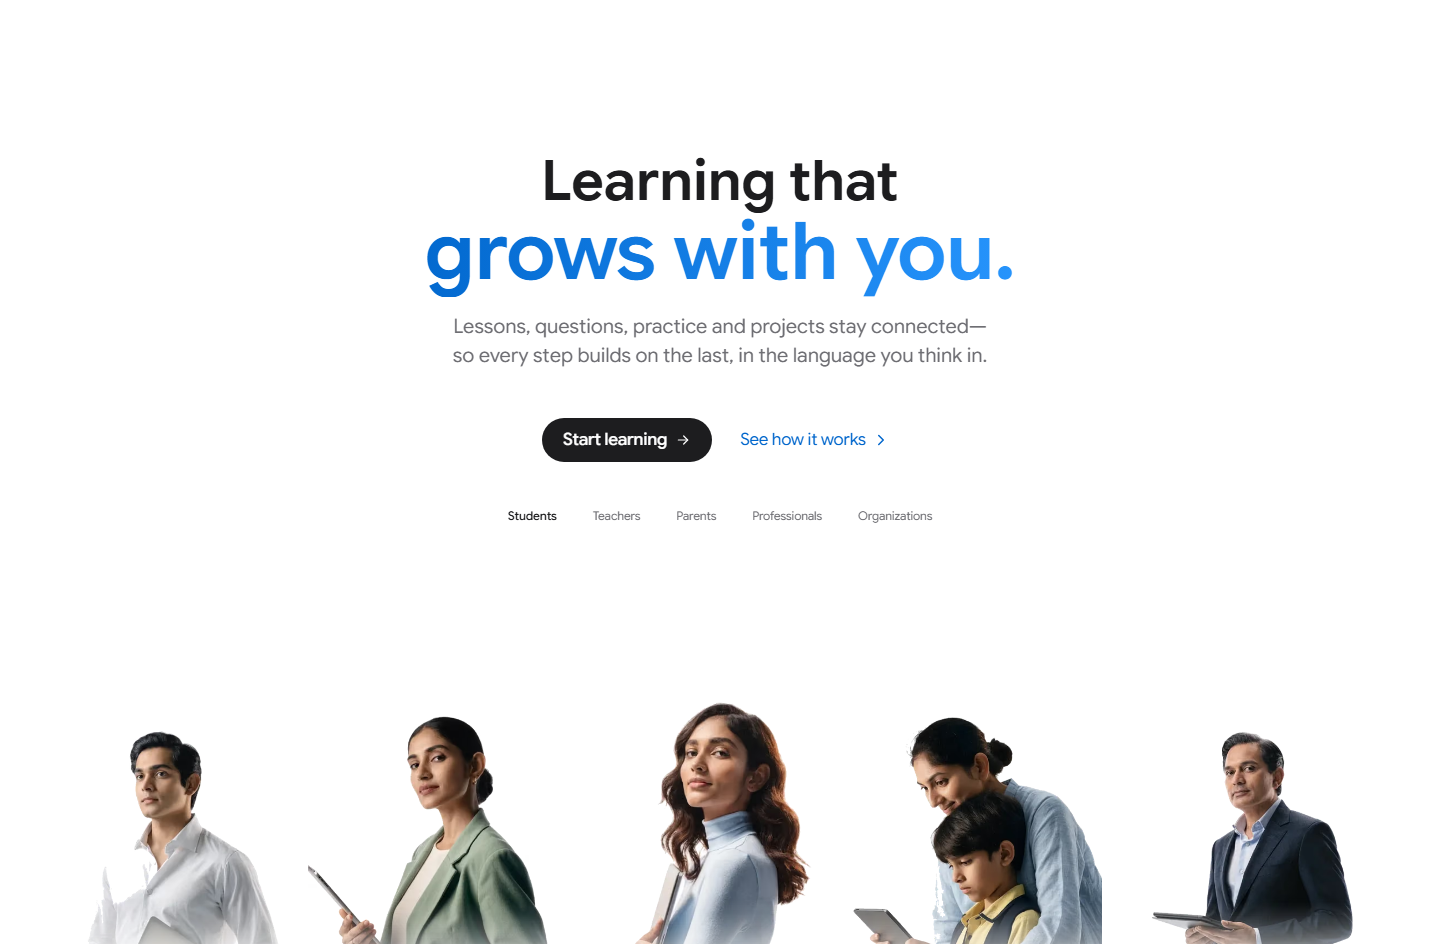
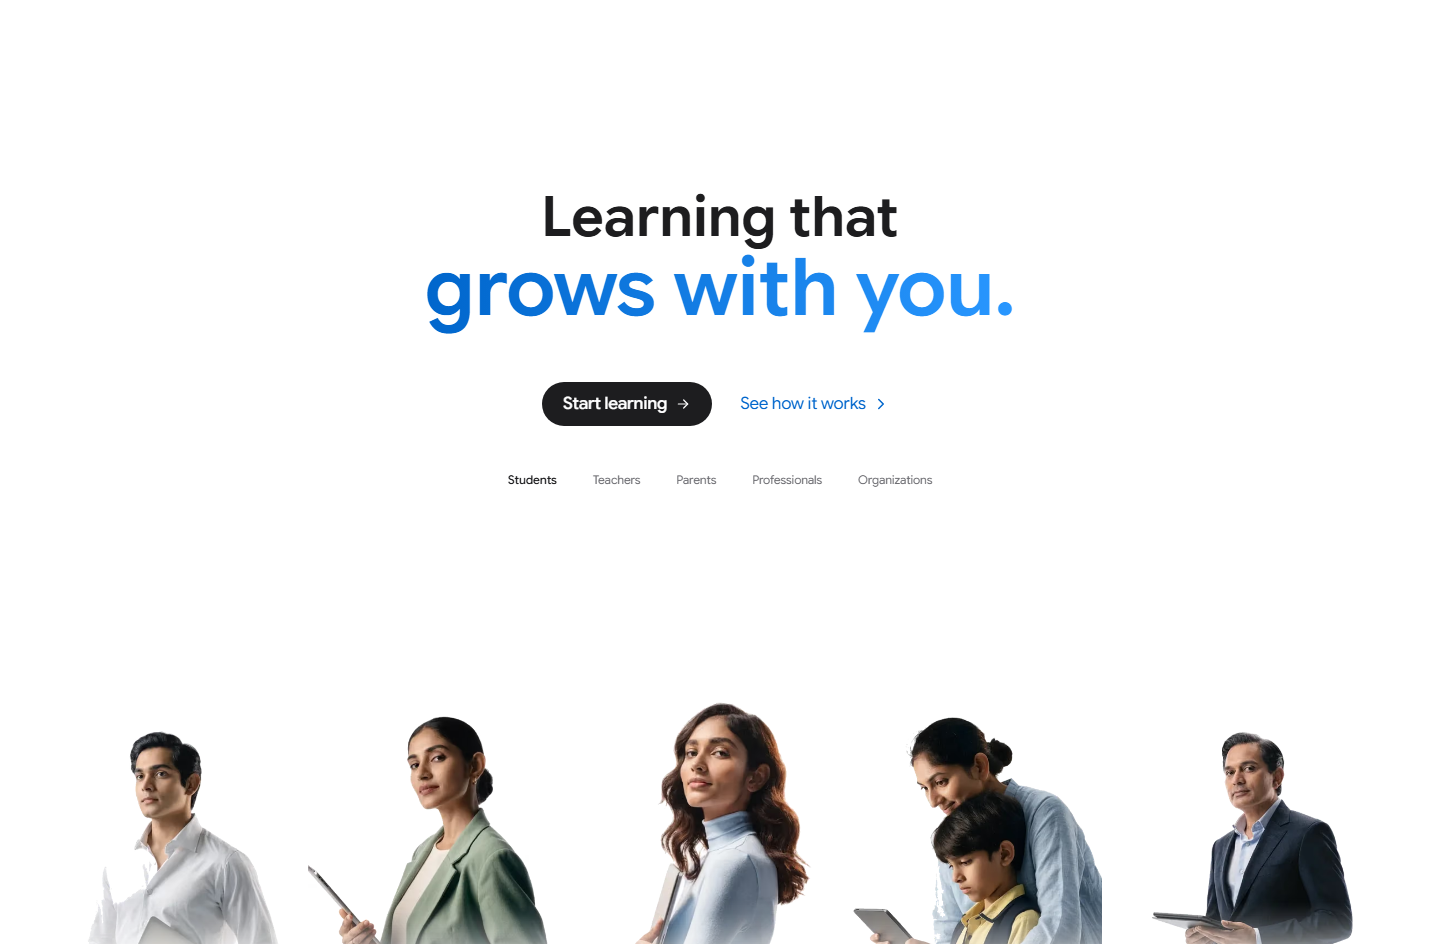
FHE-01 (V10): hero and chapter copy rewritten in Apple's measured voice
Copy study (live apple.com extraction): product heroes are name plus a
two-word fragment ('iPhone Duo / Hello, hello.'), statements are
period-fragments ('Real stories. Real impact.') — never multi-clause
dash sentences.

- Hero sub REMOVED (founder: cluttered): the first screen is the
  headline, the CTA pair, and the audience rail — Apple-clean
- One-intelligence sub is now the front door's one plain explanation,
  written for the hero->scroll journey the founder described: 'It
  remembers where you stopped, answers your questions, and turns
  practice into progress. In your language.' — two short sentences,
  concrete verbs, no dash, every claim the platform's own promise
- Five-journeys sub tightened to the same fragment grammar ('Learning,
  teaching, guiding, building, leading. ...')

Verified: quality gate PASS (5 viewports, 5 interaction groups);
871/871 tests after scope refresh; lint clean.

Changed region(s): [[0.2812, 0.1536, 0.7188, 0.553], [0.5938, 0.4915, 0.6562, 0.553], [0.3438, 0.4915, 0.375, 0.553]]

diff --git a/visionary-app/frontend/src/pages/Landing.jsx b/visionary-app/frontend/src/pages/Landing.jsx
@@ -200,7 +200,11 @@ const LandingHeroSection = React.memo(function LandingHeroSection() {
       words={LANDING_HERO_WORDS}
       staticHeadline="grows with you."
       srSentence="Learning that grows with you."
-      sub="Lessons, questions, practice and projects stay connected—so every step builds on the last, in the language you think in."
+      /* No hero sub — Apple's product heroes are name + fragment ("iPhone
+         Duo / Hello, hello.", measured 2026-11-21): the headline, the CTA
+         pair, and the audience rail are the whole first screen. The one
+         plain explanation lives in the One-intelligence chapter below,
+         where the reader arrives already primed to learn what this is. */
       cast={LANDING_HERO_LINEUP}
       audienceLinks={LANDING_AUDIENCE_LINKS}
       ctaTo={signedIn ? "/dashboard/home" : "/register"}
@@ -417,7 +421,11 @@ function LandingIntelligenceSection() {
   return (
     <Suspense fallback={null}><PremiumIntelligenceSection
       steps={INTELLIGENCE_STEPS}
-      sub="From the first question to using what you know."
+      /* The front door's one plain explanation — the reader arrives from the
+         hero promise already primed, and this line says what the product is
+         in Apple's plain voice: concrete verbs, two short sentences, no
+         dashes. Every claim is the platform's own released promise. */
+      sub="It remembers where you stopped, answers your questions, and turns practice into progress. In your language."
       promo
       ctaLabel="See how it works"
       ctaTo="/how-it-works"
@@ -442,7 +450,7 @@ function LandingRouterSection() {
     <Suspense fallback={null}><PremiumExploreSection
       eyebrow="Who it’s for"
       heading={<>One intelligence, <span className="accent-gradient">five journeys.</span></>}
-      sub="Whether you are learning, teaching, guiding, building, or leading — Visionary adapts to your stage and carries your progress forward."
+      sub="Learning, teaching, guiding, building, leading. Visionary adapts to your stage and carries your progress forward."
       headingRole="section"
       subRole="editorial-body"
       categories={ROUTER_CATEGORIES}
